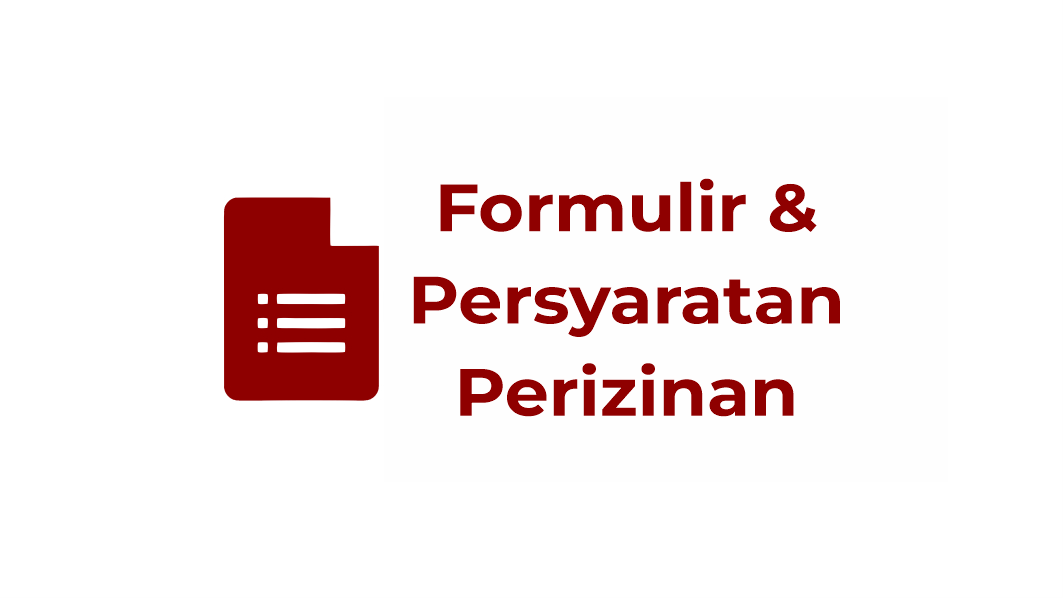
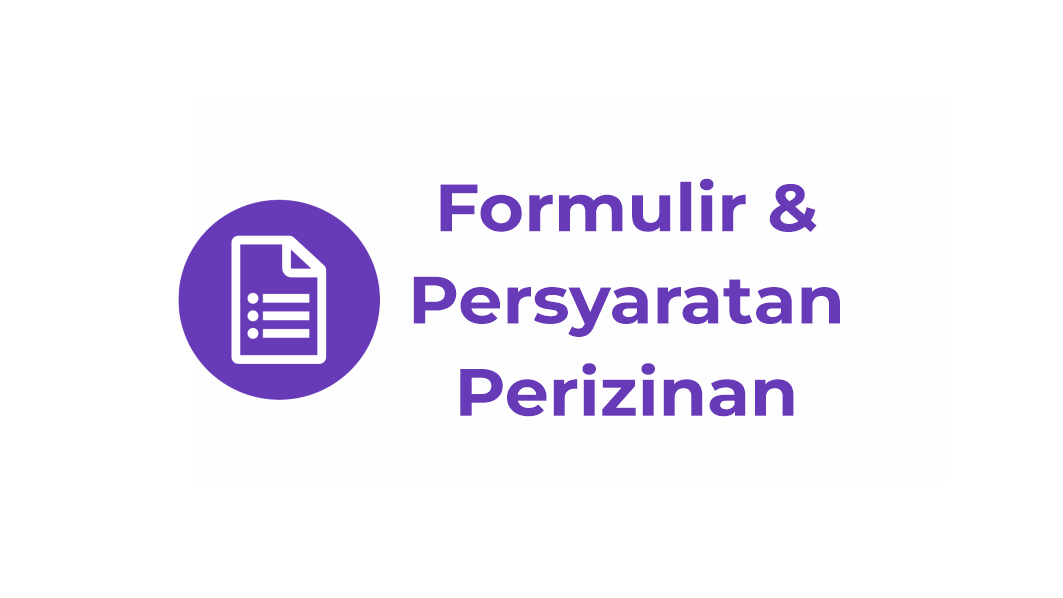
mengganti gambar button pada layanan publik dan running teks

Changed region(s): [[0.1552, 0.3311, 0.8071, 0.6923], [0.4036, 0.301, 0.7761, 0.3913], [0.4346, 0.602, 0.7451, 0.6923]]

diff --git a/application/views/home.php b/application/views/home.php
@@ -221,13 +221,13 @@
 				</p>
 				<div class="row isi-pelayanan text-center">
 					<div class="col col-sm-12 col-md-4 col-lg-4 col-6 display-4 mb-3">
-						<a href="" class="pilih-pelayanan" data-toggle="modal" data-target="#ModalPelayanan"><img id="img-layanan" class="mb-2 img-layanan" src="<?= base_url(); ?>assets/img/fpp.png" alt="gambarsp" width="100%">Formulir & Persyaratan Perizinan</a>
-					</div>
-					<div class="col col-sm-12 col-md-4 col-lg-4 col-6 display-4 mb-3">
 						<a href="#" class="pilih-pelayanan" data-toggle="modal" data-target="#StandarPelayanan" data-pdf-url="<?= base_url('assets/fileupload/Standar_Pelayanan.pdf'); ?>" data-download-url="<?= base_url('assets/fileupload/Standar_Pelayanan.pdf'); ?>">
 							<img id="img-layanan" class="mb-2 img-layanan" src="<?= base_url(); ?>assets/img/sp.jpg" alt="gambarsp" width="100%">
 							Standar Pelayanan
 						</a>
+					</div>
+					<div class="col col-sm-12 col-md-4 col-lg-4 col-6 display-4 mb-3">
+						<a href="" class="pilih-pelayanan" data-toggle="modal" data-target="#ModalPelayanan"><img id="img-layanan" class="mb-2 img-layanan" src="<?= base_url(); ?>assets/img/fpp.png" alt="gambarsp" width="100%">Formulir & Persyaratan Perizinan</a>
 					</div>
 					<div class="col col-sm-12 col-md-4 col-lg-4 col-6 display-4 mb-3">
 						<a href="https://sicantik.go.id/#/login" class="pilih-pelayanan"><img id="img-layanan" class="mb-2 img-layanan" src="<?= base_url(); ?>assets/img/sicantikcloud.jpg" alt="gambarsicantikcloud" width="100%">SiCantik</a>
@@ -1363,14 +1363,16 @@
 </script>
 
 
-<marquee class=" layer-1 fixed-bottom bg-dark text-light text-center">
+<marquee class="layer-1 fixed-bottom bg-dark text-light text-center">
 	<span width="100%">
-		<?php foreach ($teks->result() as $running) {
-		?>
-			<img class="ml-3 mr-3" src="<?= base_url(); ?>assets/img/agam.png" alt="logoagam" width="15px"> <?php echo $running->teks; ?>
-		<?php } ?>
+		<?php for ($i = 0; $i < 10; $i++) : ?>
+			<?php foreach ($teks->result() as $running) : ?>
+				<img class="ml-3 mr-3" src="<?= base_url(); ?>assets/img/agam.png" alt="logoagam" width="15px"> <?php echo $running->teks; ?>
+			<?php endforeach; ?>
+		<?php endfor; ?>
 	</span>
 </marquee>
+
 <!--End of Tawk.to Script-->
 <script>
 	$('.carousel-item', '.multi-item-carousel').each(function() {
